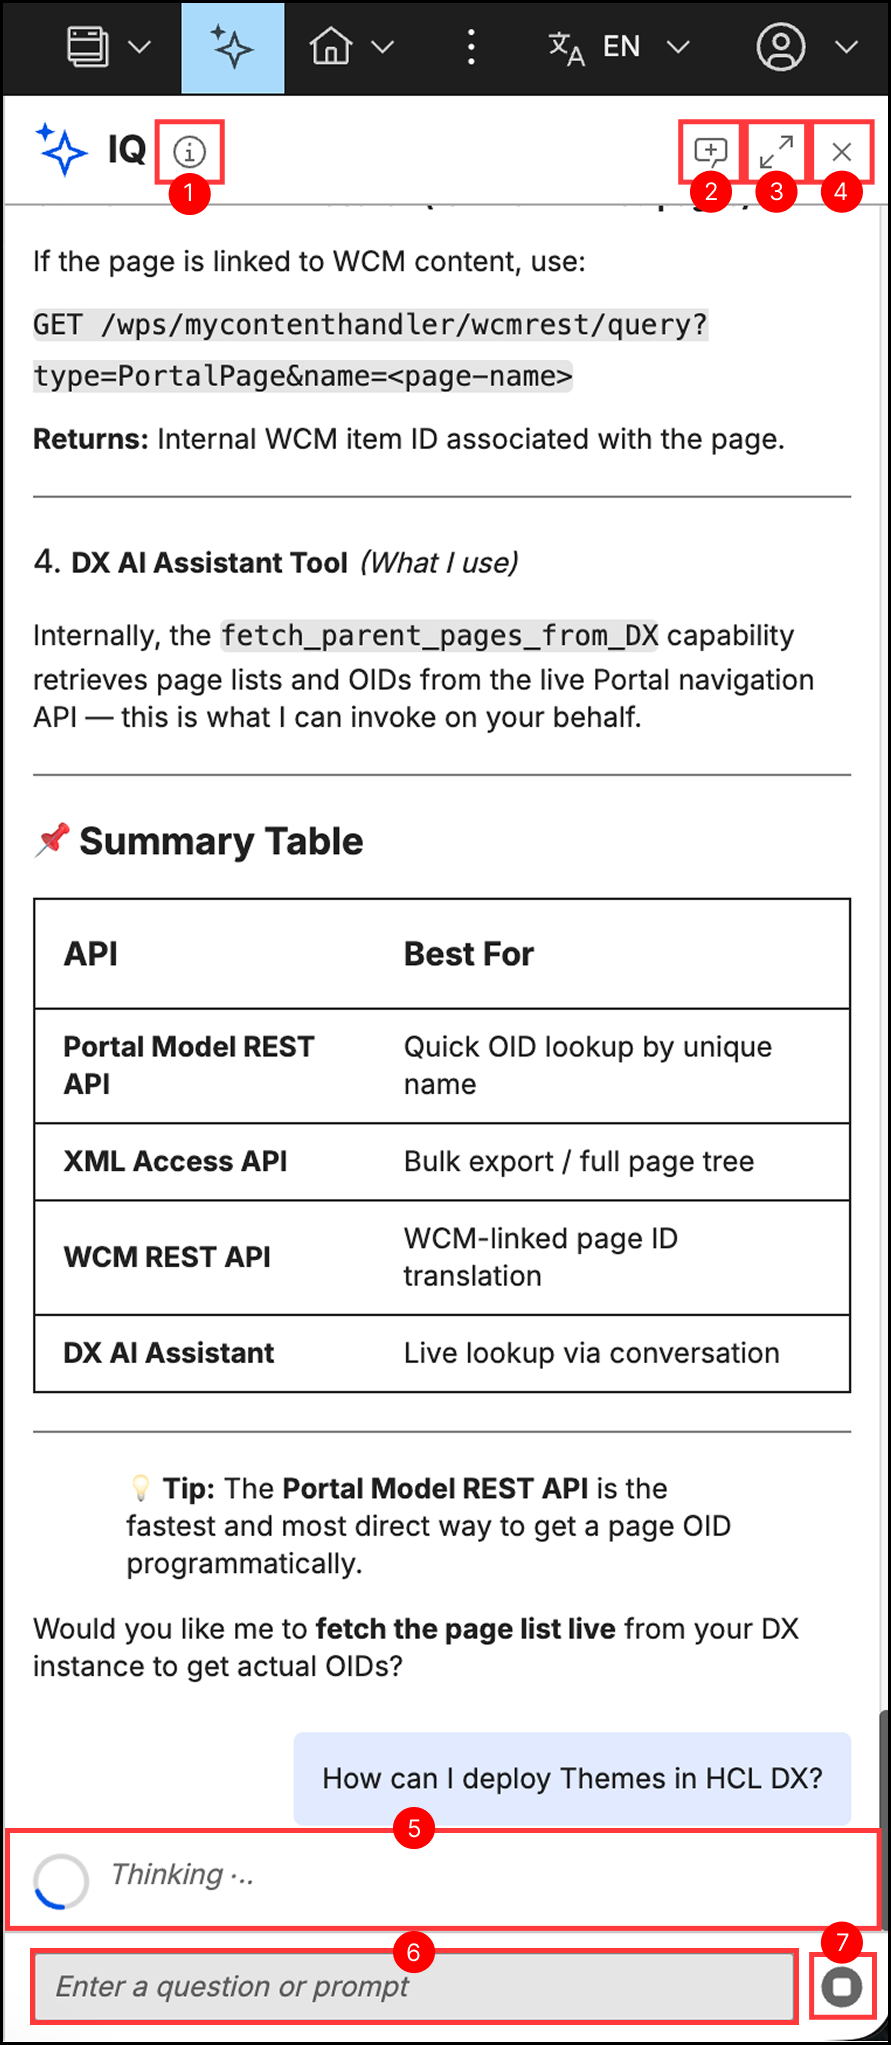
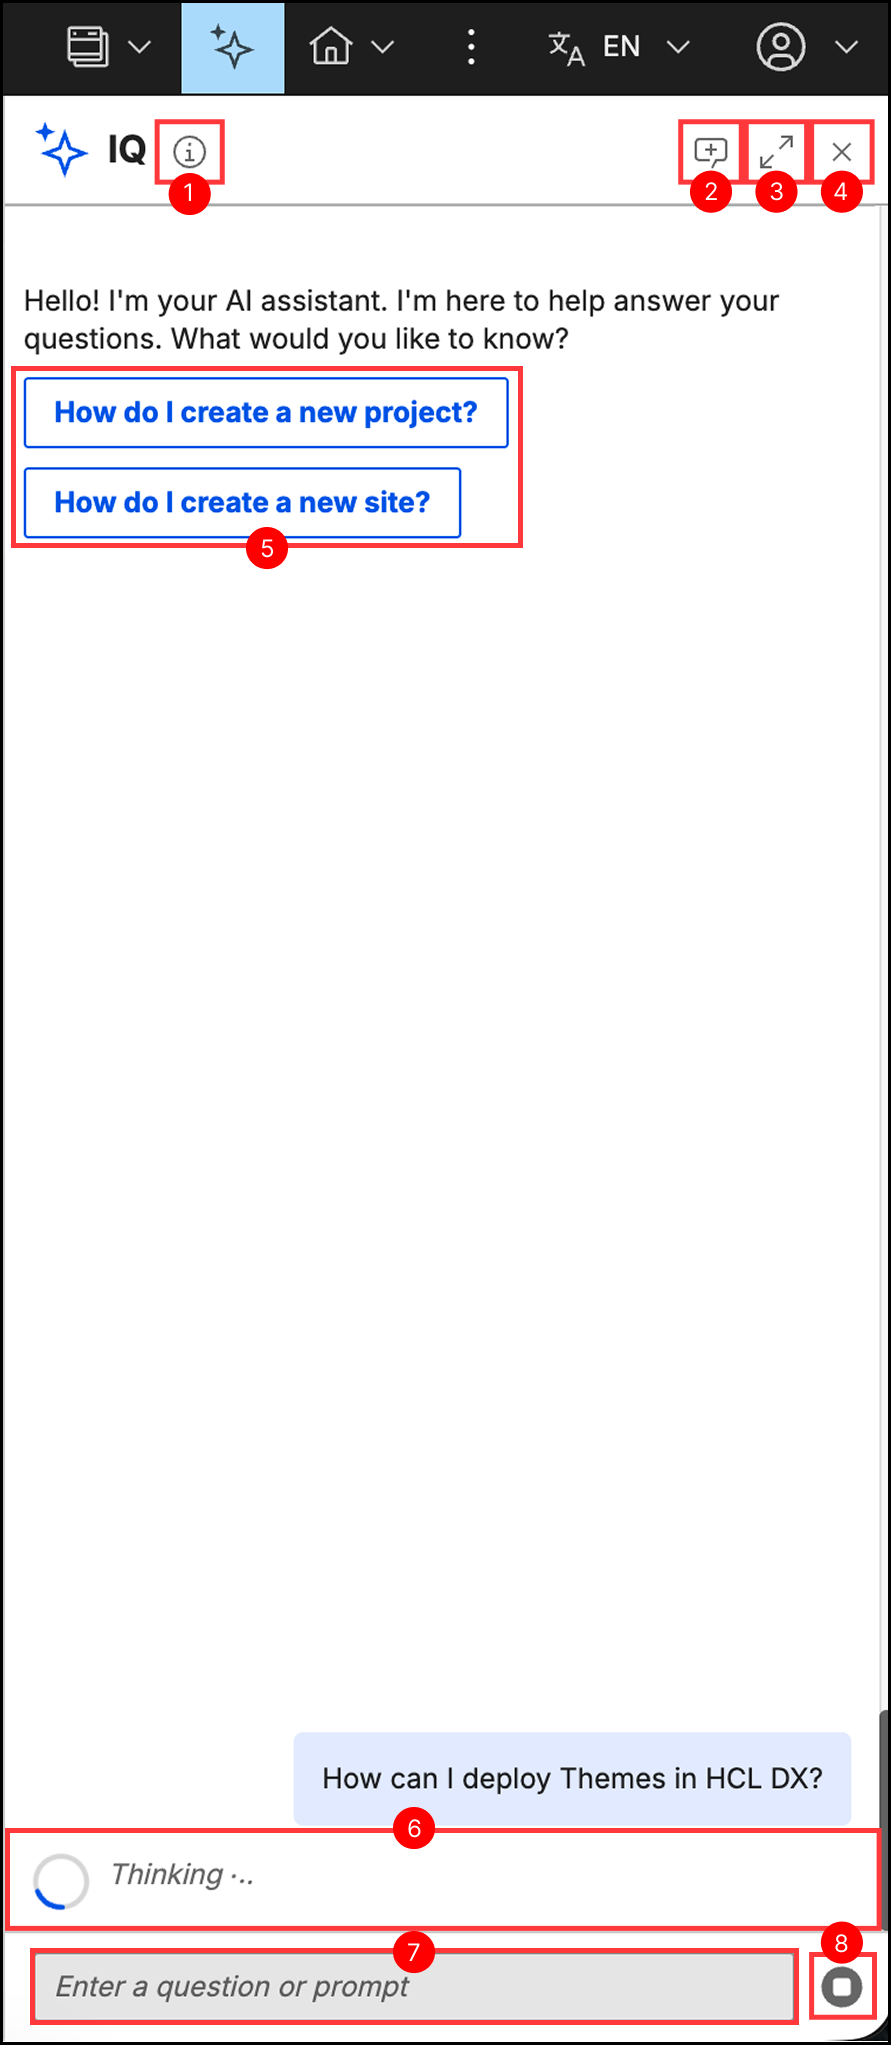
Add quick-chat prompts

Changed region(s): [[0.0303, 0.4005, 0.9394, 0.8318], [0.0, 0.1232, 0.9091, 0.3697], [0.9394, 0.4313, 0.9697, 0.6778]]

diff --git a/docs/build_sites/iq/usage.md b/docs/build_sites/iq/usage.md
@@ -12,13 +12,16 @@ Regardless of the active display mode, the interface contains the following core
 2. **Start a new conversation** button: Restarts the session and permanently clears the current chat context.
 3. **Full view**, **Panel view**, or **Compact view** button: Toggles between the standard view and the full view expanded workspace.
 4. **Close** button: Closes the assistant interface.
-5. **Status indicators**: Displays the processing state directly above the text input area. For more information about error indicators, refer to [Troubleshooting IQ](./troubleshooting.md).
-6. **Text input** field: The area to enter questions.
-7. **Send message** or **Stop request** button: Sends the question to the assistant, or cancels the active request while a response is generating.
+5. **Quick-chat** prompts: Displays clickable prompt suggestions for common tasks to quickly initiate a conversation.
+6. **Status indicators**: Displays the processing state directly above the text input area. For more information about error indicators, refer to [Troubleshooting IQ](./troubleshooting.md).
+7. **Text input** field: The area to enter questions.
+8. **Send message** or **Stop request** button: Sends the question to the assistant, or cancels the active request while a response is generating.
 
 ## Sending requests
 
-To submit a request, enter your prompt in the text input field at the bottom of the interface, and then select the **Send message** button. Your message appears in the chat timeline immediately while a "Thinking..." indicator shows that IQ is actively generating your response. Once IQ finishes generating, the indicator clears, and the finalized response populates the chat timeline using formatted rich text, lists, code snippets, or documentation links.
+To submit a request, select one of the **Quick-chat** prompts to send a pre-configured prompt automatically, or enter a custom prompt in the text input field at the bottom of the interface and select the **Send message** button.
+
+Your message appears in the chat timeline immediately while a "Thinking..." indicator shows that IQ is actively generating your response. Once IQ finishes generating, the indicator clears, and the finalized response populates the chat timeline using formatted rich text, lists, code snippets, or documentation links.
 
 ## Managing conversations
 
